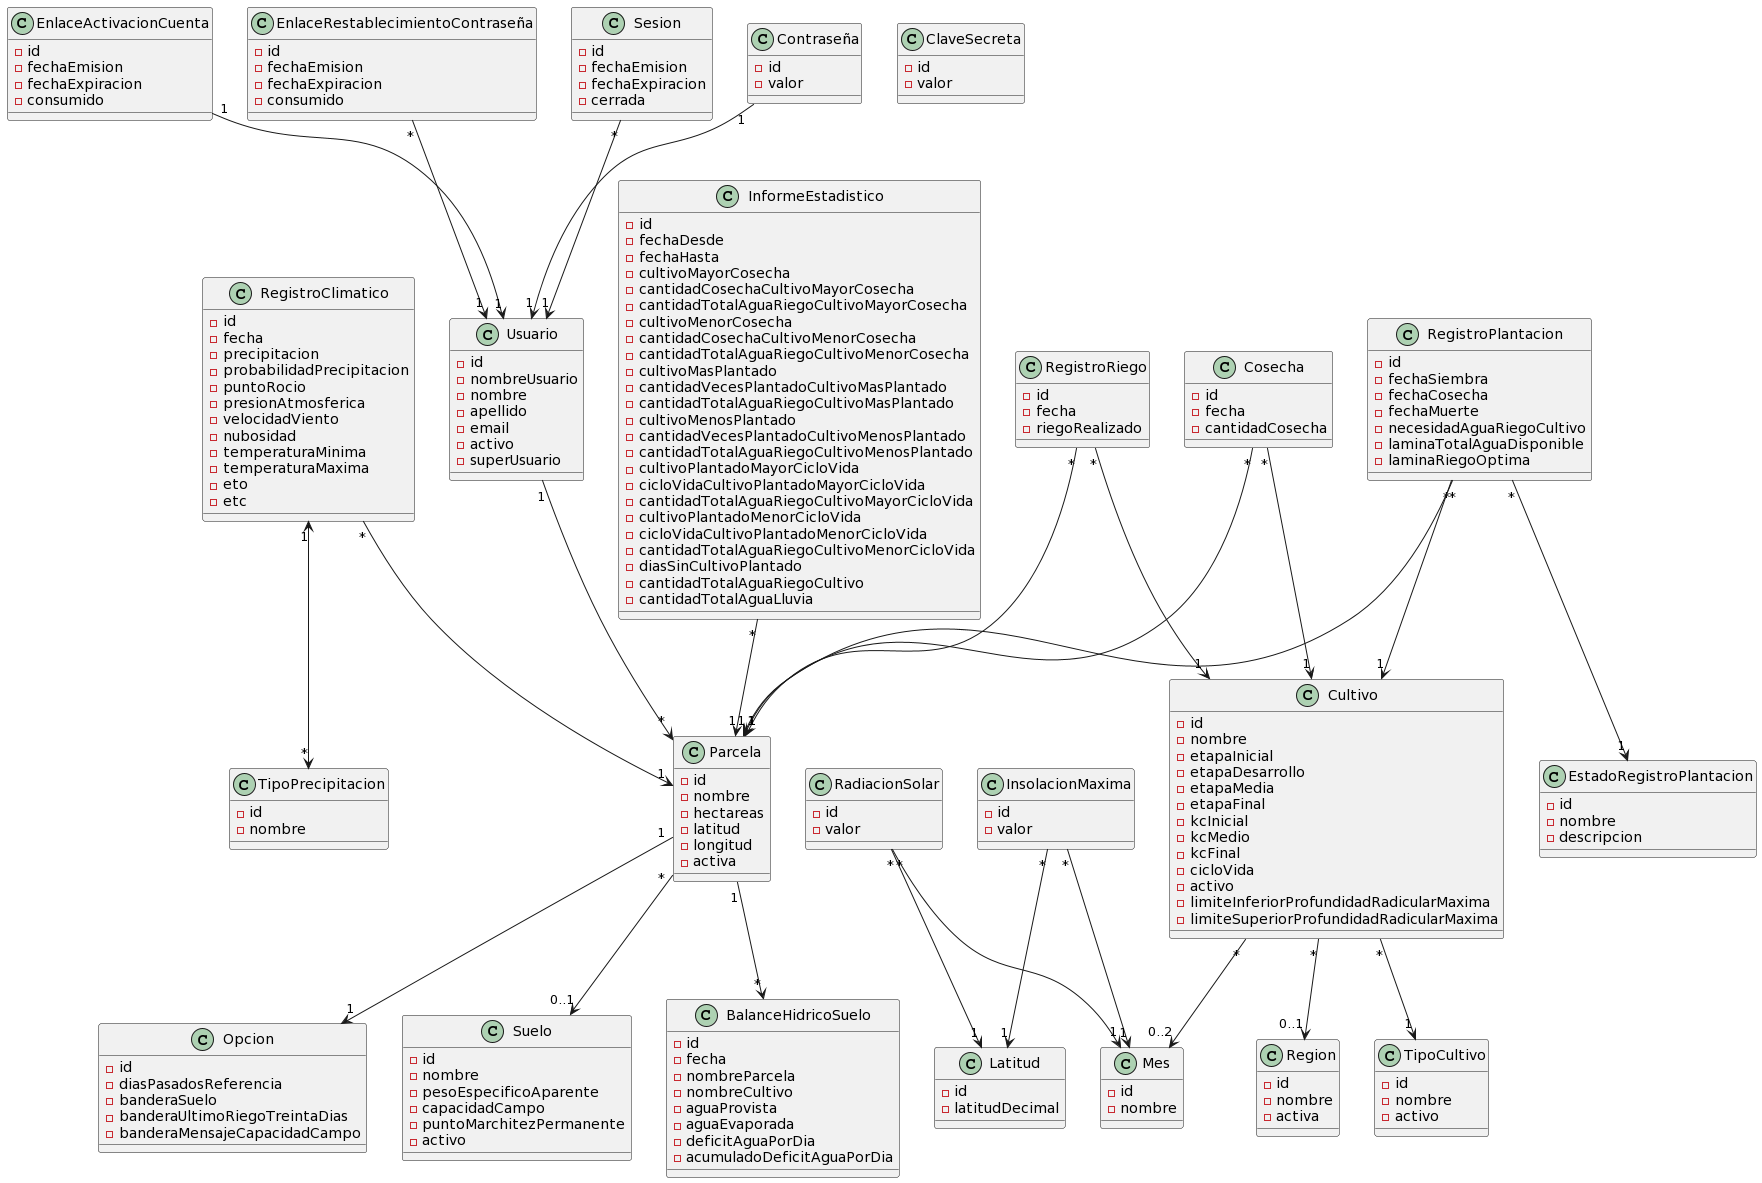
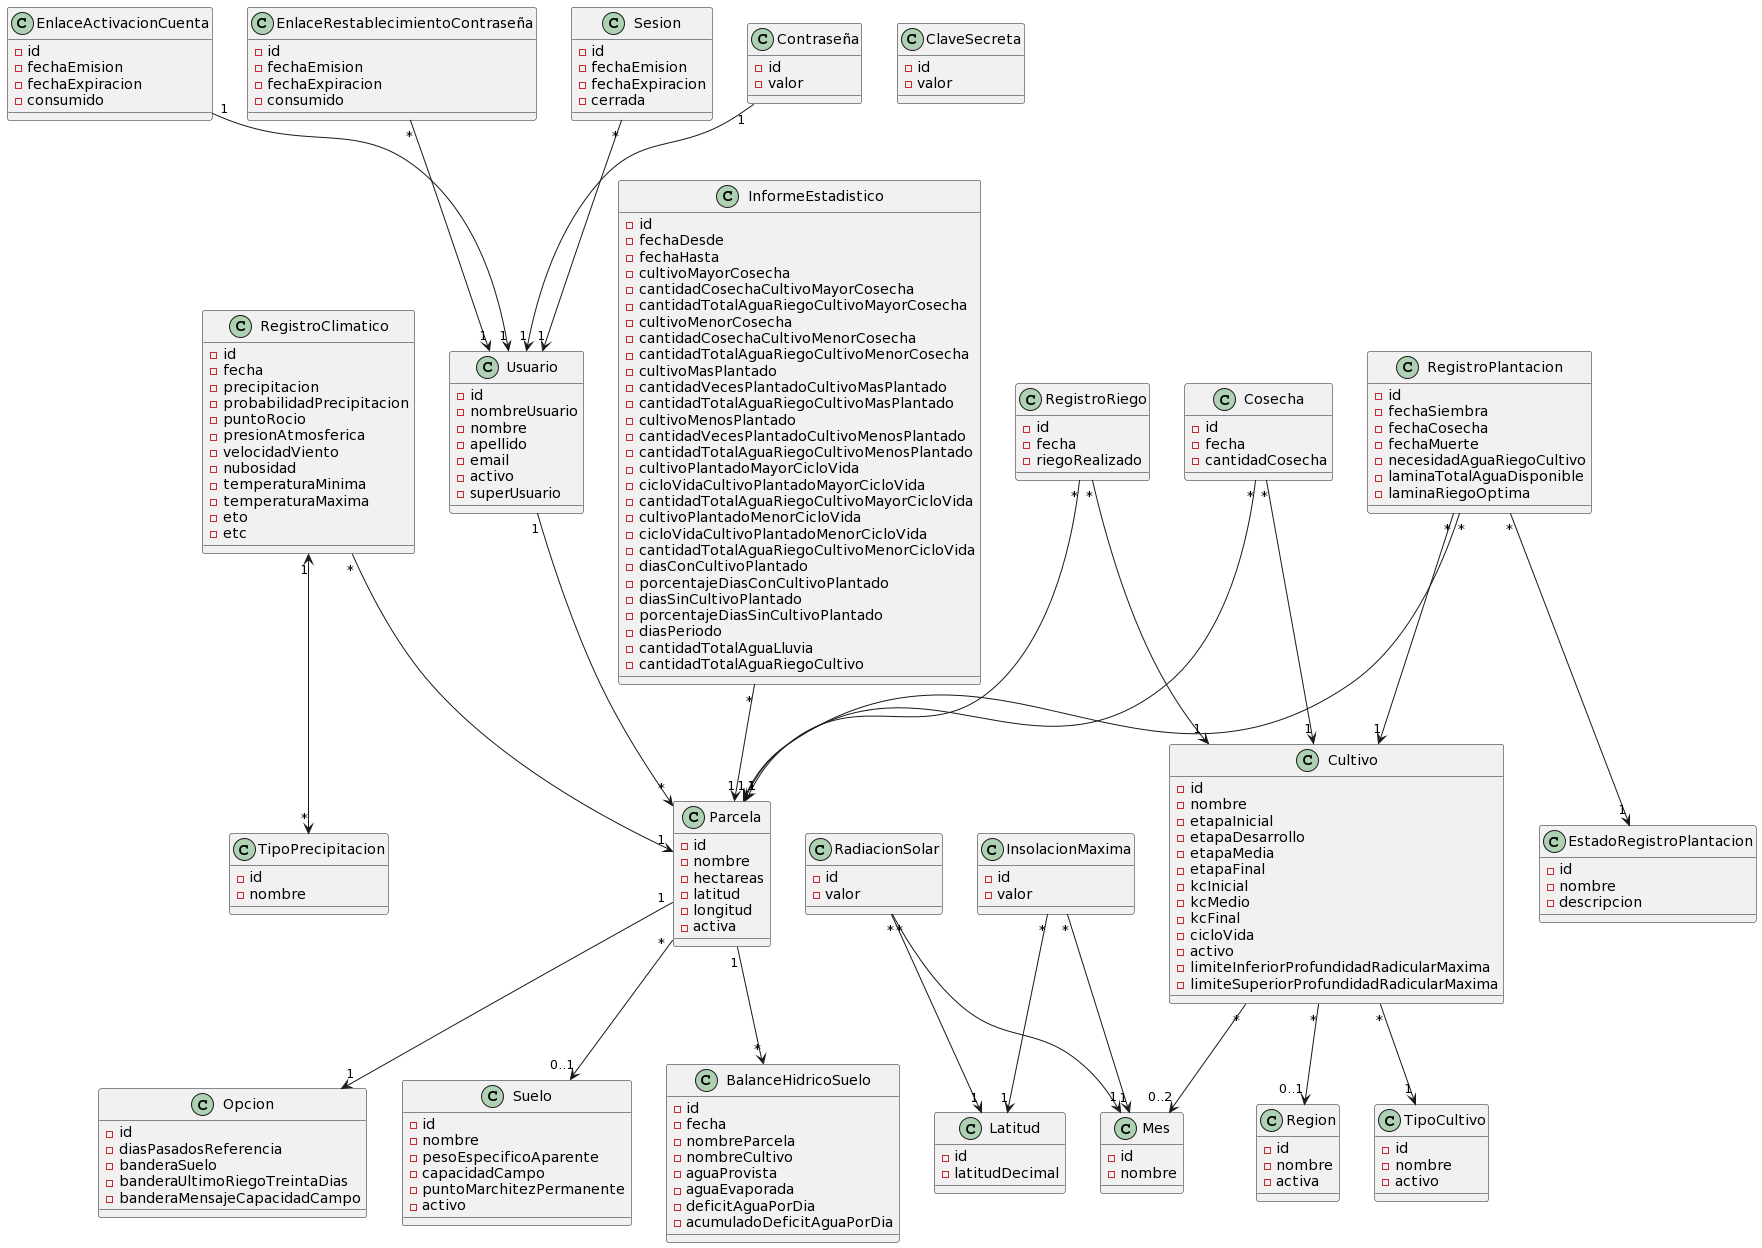
Tarea #355 terminada

diff --git a/app/public/partials/user/statistical-report-form.html b/app/public/partials/user/statistical-report-form.html
@@ -376,11 +376,29 @@
 			</div>
 
 			<div class="form-group" ng-hide="action == 'new'">
+				<label for="statisticalReport_percentageDaysWithCrops" class="col-md-2 control-label">Porcentaje de la
+					cantidad de días en los que la parcela tuvo un cultivo plantado</label>
+				<div class="col-md-3">
+					<input type="text" class="form-control" id="statisticalReport_percentageDaysWithCrops"
+						ng-model="data.percentageDaysWithCrops" ng-disabled="action == 'view'">
+				</div>
+			</div>
+
+			<div class="form-group" ng-hide="action == 'new'">
 				<label for="statisticalReport_daysWithoutCrops" class="col-md-2 control-label">Cantidad de
 					días en los que la parcela no tuvo ningún cultivo plantado</label>
 				<div class="col-md-3">
 					<input type="text" class="form-control" id="statisticalReport_daysWithoutCrops"
 						ng-model="data.daysWithoutCrops" ng-disabled="action == 'view'">
+				</div>
+			</div>
+
+			<div class="form-group" ng-hide="action == 'new'">
+				<label for="statisticalReport_percentageDaysWithoutCrops" class="col-md-2 control-label">Porcentaje de
+					la cantidad de días en los que la parcela no tuvo ningún cultivo plantado</label>
+				<div class="col-md-3">
+					<input type="text" class="form-control" id="statisticalReport_percentageDaysWithoutCrops"
+						ng-model="data.percentageDaysWithoutCrops" ng-disabled="action == 'view'">
 				</div>
 			</div>
 

diff --git a/app/src/servlet/StatisticalReportRestServlet.java b/app/src/servlet/StatisticalReportRestServlet.java
@@ -4,6 +4,7 @@ import com.fasterxml.jackson.databind.ObjectMapper;
 import com.fasterxml.jackson.core.type.TypeReference;
 import java.io.IOException;
 import java.text.SimpleDateFormat;
+import java.text.DecimalFormat;
 import java.text.ParseException;
 import java.util.Calendar;
 import java.util.Date;
@@ -1060,6 +1061,7 @@ public class StatisticalReportRestServlet {
     double totalAmountIrrigationWaterCropLongestLifeCycle = 0;
     double totalAmountIrrigationWaterCropShortestLifeCycle = 0;
     double totalAmountCropIrrigationWater = irrigationRecordService.calculateTotalAmountCropIrrigationWater(parcelId, dateFrom, dateUntil);
+    double totalAmountRainwater = climateRecordService.calculateAmountRainwaterByPeriod(parcelId, dateFrom, dateUntil);
 
     int quantityMostPlantedCrop = 0;
     int quantityLesstPlantedCrop = 0;
@@ -1073,16 +1075,23 @@ public class StatisticalReportRestServlet {
     String cropLongestLifeCyclePlanted = plantingRecordService.findCropWithLongestLifeCycle(parcelId, dateFrom, dateUntil);
     String cropShortestLifeCyclePlanted = plantingRecordService.findCropWithShortestLifeCycle(parcelId, dateFrom, dateUntil);
 
-    int daysWithCrops = plantingRecordService.calculateDaysWithCrops(parcelId, dateFrom, dateUntil);
-    int daysWithoutCrops = plantingRecordService.calculateDaysWithoutCrops(parcelId, dateFrom, dateUntil);
-
     /*
      * Se suma un uno a la diferencia de dias entre la fecha
      * desde y la fecha hasta para incluir a la fecha desde
      * en el resultado
      */
     int daysPeriod = UtilDate.calculateDifferenceBetweenDates(dateFrom, dateUntil) + 1;
-    double totalAmountRainwater = climateRecordService.calculateAmountRainwaterByPeriod(parcelId, dateFrom, dateUntil);
+    int daysWithCrops = plantingRecordService.calculateDaysWithCrops(parcelId, dateFrom, dateUntil);
+    int daysWithoutCrops = plantingRecordService.calculateDaysWithoutCrops(parcelId, dateFrom, dateUntil);
+
+    /*
+     * Es necesario hacer una conversion explicita (cast) de
+     * int a double, ya que de lo contrario se toma la parte
+     * entera del numero resultante de la division entre
+     * numeros int
+     */
+    double percentageDaysWithCrops = (double) daysWithCrops / (double) daysPeriod * 100;
+    double percentageDaysWithoutCrops = (double) daysWithoutCrops / (double) daysPeriod * 100;
 
     /*
      * Si existe el cultivo con mayor rendimiento (mayor cantidad
@@ -1250,8 +1259,10 @@ public class StatisticalReportRestServlet {
      */
     if (daysWithCrops >= 0) {
       statisticalReport.setDaysWithCrops(String.valueOf(daysWithCrops));
+      statisticalReport.setPercentageDaysWithCrops(new DecimalFormat("#.##").format(percentageDaysWithCrops) + "%");
     } else {
       statisticalReport.setDaysWithCrops(DATA_NOT_AVAILABLE);
+      statisticalReport.setPercentageDaysWithCrops(DATA_NOT_AVAILABLE);
     }
 
     /*
@@ -1267,8 +1278,10 @@ public class StatisticalReportRestServlet {
      */
     if (daysWithoutCrops >= 0) {
       statisticalReport.setDaysWithoutCrops(String.valueOf(daysWithoutCrops));
+      statisticalReport.setPercentageDaysWithoutCrops(new DecimalFormat("#.##").format(percentageDaysWithoutCrops) + "%");
     } else {
       statisticalReport.setDaysWithoutCrops(DATA_NOT_AVAILABLE);
+      statisticalReport.setPercentageDaysWithoutCrops(DATA_NOT_AVAILABLE);
     }
 
     /*

diff --git a/app/src/model/StatisticalReport.java b/app/src/model/StatisticalReport.java
@@ -87,8 +87,14 @@ public class StatisticalReport {
   @Column(name = "DAYS_WITH_CROPS")
   private String daysWithCrops;
 
+  @Column(name = "PERCENTAGE_DAYS_WITH_CROPS")
+  private String percentageDaysWithCrops;
+
   @Column(name = "DAYS_WITHOUT_CROPS")
   private String daysWithoutCrops;
+
+  @Column(name = "PERCENTAGE_DAYS_WITHOUT_CROPS")
+  private String percentageDaysWithoutCrops;
 
   @Column(name = "DAYS_PERIOD")
   private int daysPeriod;
@@ -279,12 +285,28 @@ public class StatisticalReport {
     this.daysWithCrops = daysWithCrops;
   }
 
+  public String getPercentageDaysWithCrops() {
+    return percentageDaysWithCrops;
+  }
+
+  public void setPercentageDaysWithCrops(String percentageDaysWithCrops) {
+    this.percentageDaysWithCrops = percentageDaysWithCrops;
+  }
+
   public String getDaysWithoutCrops() {
     return daysWithoutCrops;
   }
 
   public void setDaysWithoutCrops(String daysWithoutCrops) {
     this.daysWithoutCrops = daysWithoutCrops;
+  }
+
+  public String getPercentageDaysWithoutCrops() {
+    return percentageDaysWithoutCrops;
+  }
+
+  public void setPercentageDaysWithoutCrops(String percentageDaysWithoutCrops) {
+    this.percentageDaysWithoutCrops = percentageDaysWithoutCrops;
   }
 
   public int getDaysPeriod() {
